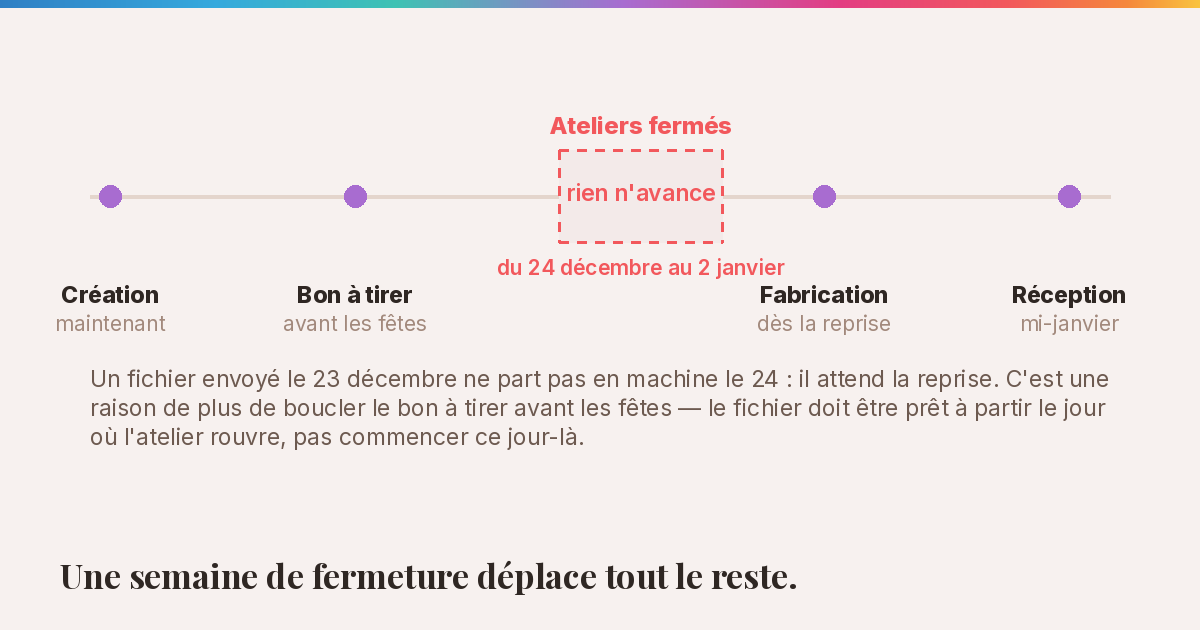
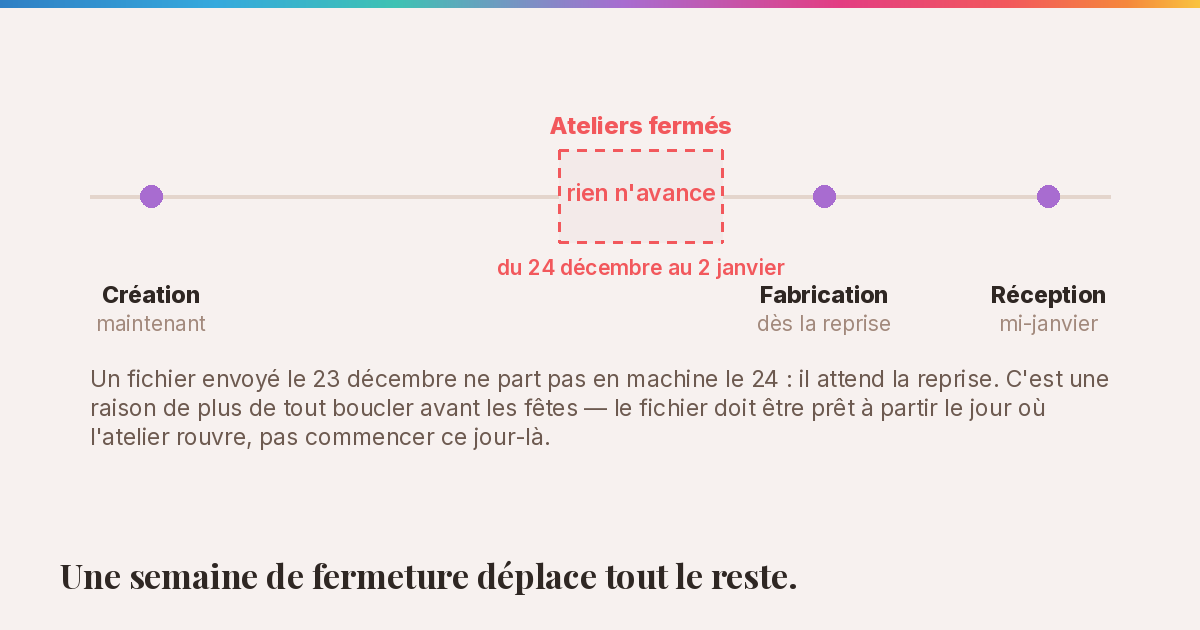
Sept articles sur huit validés, et le bon à tirer quitte le rétroplanning
Validés par Laurent le 24 octobre : le 12 novembre, le 27 novembre et
le 4 décembre tels quels ; le 20 novembre après retrait. Avec les trois
déjà validés, il reste un seul article en attente — celui du
1er décembre, sur les avis, qui est neuf.

Le retrait demandé sur le 20 novembre est l'étape « Décembre : le bon à
tirer ». Elle sort du texte ET des deux frises, comme demandé — mais
pas toute seule : la laisser dans trois phrases qui la nomment aurait
été pire que de ne rien retirer. Les quatre étapes qui ne se
compressent pas deviennent donc trois, « maintenant » couvre la
création et les corrections, et la raison de boucler avant les fêtes
ne cite plus le bon à tirer mais le fichier.

Dans la frise d'en-tête, l'intervalle vide se déplace : il séparait
l'impression du bon à tirer, il sépare maintenant la création de
l'impression. C'est le même intervalle — celui des fêtes — mais il n'a
plus d'étape à sa droite, et le pointillé suit.

Deux choses à signaler, qui ne sont pas dans ce commit.

« Les avis clients : le seul support de communication que vous ne
payez pas » n'existe plus nulle part : c'est le titre de la version
d'hier, remplacée par « Cinq avis signés, et le mot qui revient dans
quatre ». Le PDF où il figure encore est l'ancien.

La publication n° 17 du 23 novembre porte toujours le bon à tirer, et
à deux endroits : le repère 2 de sa frise, et sa planche 05 entière —
« Le bon à tirer n'est pas une formalité ». Elle paraît trois jours
[…]

diff --git a/reseaux/illustrations.py b/reseaux/illustrations.py
@@ -684,10 +684,14 @@ def illu_retroplanning():
     tirer et reprend en janvier.
     """
     im, d = fond()
-    etapes = [("Création", "maintenant"), ("Bon à tirer", "décembre"),
-              ("Impression", "janvier"), ("Réception", "mi-janvier")]
+    # Trois moments depuis le 24 octobre : le bon à tirer est sorti de
+    # l'article, la frise le suit. L'intervalle vide se déplace donc
+    # entre la création et l'impression — c'est toujours le même
+    # intervalle, celui des fêtes, mais il n'a plus d'étape à sa droite.
+    etapes = [("Création", "maintenant"), ("Impression", "janvier"),
+              ("Réception", "mi-janvier")]
     cy = 250
-    xs = [170, 450, 730, 1010]
+    xs = [210, 600, 990]
     for i, (nom, delai) in enumerate(etapes):
         x = xs[i]
         d.ellipse([x - 42, cy - 42, x + 42, cy + 42], fill=rvb("corail"))
@@ -697,12 +701,12 @@ def illu_retroplanning():
                fill=rvb("blanc"))
         legende(d, x, cy + 64, nom, 23, "encre", centre=True)
         legende(d, x, cy + 94, delai, 20, "taupe", centre=True)
-        if i < 3:                       # une fleche, vers la gauche
+        if i < len(etapes) - 1:         # une fleche, vers la gauche
             xa, xb = xs[i + 1] - 58, x + 58
-            if i == 1:
-                # L'intervalle entre l'impression (janvier) et le bon a
-                # tirer (decembre) est le seul ou RIEN ne se passe : le
-                # fichier attend les fetes. Le legender sans le dessiner
+            if i == 0:
+                # L'intervalle entre la creation et l'impression est
+                # le seul ou RIEN ne se passe : le fichier attend les
+                # fetes. Le legender sans le dessiner
                 # laisserait la frise dire le contraire de sa propre
                 # legende, donc ce trait-la est pointille.
                 t = xa
@@ -717,8 +721,8 @@ def illu_retroplanning():
                        width=5)
             d.polygon([(xb, cy), (xb + 22, cy - 12), (xb + 22, cy + 12)],
                       fill=rvb("sable_fonce"))
-    legende(d, 170, cy - 92, "aujourd'hui", 20, "taupe", centre=True)
-    legende(d, 1010, cy - 92, "la boîte aux lettres", 20, "taupe",
+    legende(d, 210, cy - 92, "aujourd'hui", 20, "taupe", centre=True)
+    legende(d, 990, cy - 92, "la boîte aux lettres", 20, "taupe",
             centre=True)
     titre_bas(d, "Le calendrier se coupe en deux, et on compte à rebours.")
     return im
@@ -791,10 +795,9 @@ def illu_voeux_fermeture():
     ecrire(d, (fx0 + fx1) / 2, y + 58, "du 24 décembre au 2 janvier",
            "Inter-600", 21, "corail", centre=True)
 
-    jalons = [(0.02, "Création", "maintenant"),
-              (0.26, "Bon à tirer", "avant les fêtes"),
+    jalons = [(0.06, "Création", "maintenant"),
               (0.72, "Fabrication", "dès la reprise"),
-              (0.96, "Réception", "mi-janvier")]
+              (0.94, "Réception", "mi-janvier")]
     for p, titre, quand in jalons:
         x = x0 + (x1 - x0) * p
         d.ellipse([x - 11, y - 11, x + 11, y + 11], fill=rvb("violet"))
@@ -802,9 +805,9 @@ def illu_voeux_fermeture():
         ecrire(d, x, y + 114, quand, "Inter-400", 21, "taupe", centre=True)
     pave(d, 90, 364,
          "Un fichier envoyé le 23 décembre ne part pas en machine le 24 : "
-         "il attend la reprise. C'est une raison de plus de boucler le bon "
-         "à tirer avant les fêtes — le fichier doit être prêt à partir le "
-         "jour où l'atelier rouvre, pas commencer ce jour-là.",
+         "il attend la reprise. C'est une raison de plus de tout boucler "
+         "avant les fêtes — le fichier doit être prêt à partir le jour où "
+         "l'atelier rouvre, pas commencer ce jour-là.",
          "Inter-400", 23, LARGE - 180)
     titre_bas(d, "Une semaine de fermeture déplace tout le reste.")
     return im

diff --git a/reseaux/blog/2026-11-20-supports-fin-annee-66.md b/reseaux/blog/2026-11-20-supports-fin-annee-66.md
@@ -7,7 +7,7 @@ date: 2026-11-20
 meta: "Passé la mi-novembre, imprimer pour Noël devient un pari. Le calendrier des vœux de janvier, l'emballage réutilisable et le menu de réveillon : ce qui reste tenable."
 illustration: retroplanning.png
 illustration_alt: "Frise du rétroplanning lue de droite à gauche, de la mi-janvier vers aujourd'hui : réception en mi-janvier, impression en janvier, bon à tirer en décembre, création maintenant."
-statut: à relire
+statut: validé
 ---
 
 # Cartes de vœux : il est trop tard pour Noël, et c'est une bonne nouvelle
@@ -30,17 +30,14 @@ Une précision qui change le calendrier : **le 31 janvier est la limite, pas la 
 [figure: voeux-fenetre.png | La même carte, deux mois, deux effets. | À gauche, dix-huit enveloppes empilées pour décembre ; à droite, une seule enveloppe pour janvier.]
 ## Le rétroplanning, coupé en deux
 
-Quatre étapes ne se compressent pas : la création, les corrections, le bon à tirer, la fabrication. Jusqu'ici elles s'enchaînaient. Pour janvier, elles se coupent en deux, et c'est tout l'intérêt.
+Trois étapes ne se compressent pas : la création, les corrections, la fabrication. Jusqu'ici elles s'enchaînaient. Pour janvier, elles se coupent en deux, et c'est tout l'intérêt.
 
-**Maintenant : la création.** On décide ce qu'on envoie, à qui, et en quelle quantité. Comptez une semaine de création et une semaine d'aller-retour pour les corrections — celles-ci dépendent de votre disponibilité, pas de la mienne, et cette disponibilité, vous l'avez en novembre.
-
-**Décembre : le bon à tirer.** Un exemplaire réel sur le papier définitif, validé avant de lancer la série. C'est l'étape que les gens pressés veulent sauter, et celle qui évite de refaire mille cartes.
-
+**Maintenant : la création et les corrections.** On décide ce qu'on envoie, à qui, et en quelle quantité. Comptez une semaine de création et une semaine d'aller-retour pour les corrections — celles-ci dépendent de votre disponibilité, pas de la mienne, et cette disponibilité, vous l'avez en novembre.
 
 [figure: voeux-fermeture.png | La semaine où rien n'avance, et tout ce qu'elle déplace. | Frise de la création à la réception, coupée par une zone en pointillés corail du 24 décembre au 2 janvier, marquée « ateliers fermés ».]
 **Janvier : la fabrication et la livraison.** Les ateliers se sont vidés, les transporteurs aussi, et les délais annoncés redeviennent les délais réels.
 
-Une réserve, et elle compte : entre Noël et le 2 janvier, les imprimeurs prennent des congés comme tout le monde, et beaucoup ferment une semaine entière. Un fichier envoyé le 23 décembre ne part pas en machine le 24, il attend la reprise. C'est une raison de plus de boucler le bon à tirer avant les fêtes : le fichier doit être prêt à partir le jour où l'atelier rouvre, pas commencer ce jour-là.
+Une réserve, et elle compte : entre Noël et le 2 janvier, les imprimeurs prennent des congés comme tout le monde, et beaucoup ferment une semaine entière. Un fichier envoyé le 23 décembre ne part pas en machine le 24, il attend la reprise. C'est une raison de plus de tout boucler avant les fêtes : le fichier doit être prêt à partir le jour où l'atelier rouvre, pas commencer ce jour-là.
 
 Votre fichier attend pendant les fêtes, votre commande non. L'erreur de calcul, elle, ne change pas : on compte à partir d'aujourd'hui, alors qu'il faut compter à l'envers, depuis le jour où la carte doit être dans la boîte aux lettres.
 

diff --git a/reseaux/propositions/a-valider/blog.md b/reseaux/propositions/a-valider/blog.md
@@ -23,14 +23,14 @@ Chaque article paraîtra à sa date, tout seul.
 |---|---|---|---|---|
 | vendredi 30 octobre | Enseigne de commerce : comment obtenir l'autorisation préalab | 801 | 3 | ✅ validé |
 | vendredi 6 novembre | Pourquoi vos couleurs imprimées ne ressemblent jamais à votre | 647 | 3 | ✅ validé |
-| jeudi 12 novembre | Habiller sa vitrine : dépoli, microperforé ou lettres découpé | 925 | 3 | ⚠ à relire |
+| jeudi 12 novembre | Habiller sa vitrine : dépoli, microperforé ou lettres découpé | 925 | 3 | ✅ validé |
 | vendredi 13 novembre | Qui possède votre logo ? | 687 | 3 | ✅ validé |
-| vendredi 20 novembre | Cartes de vœux : il est trop tard pour Noël, et c'est une bon | 1065 | 3 | ⚠ à relire |
-| vendredi 27 novembre | Vitrine de fin d'année : ce qui se lit vraiment depuis le tro | 854 | 3 | ⚠ à relire |
+| vendredi 20 novembre | Cartes de vœux : il est trop tard pour Noël, et c'est une bon | 1026 | 3 | ✅ validé |
+| vendredi 27 novembre | Vitrine de fin d'année : ce qui se lit vraiment depuis le tro | 854 | 3 | ✅ validé |
 | mardi 1er décembre | Cinq avis signés, et le mot qui revient dans quatre | 1185 | 3 | ⚠ à relire |
-| vendredi 4 décembre | Faut-il refaire son logo pour la nouvelle année ? Trois quest | 792 | 3 | ⚠ à relire |
+| vendredi 4 décembre | Faut-il refaire son logo pour la nouvelle année ? Trois quest | 792 | 3 | ✅ validé |
 
-**5 articles sur 8 attendent ta validation.** Pour en
+**1 article sur 8 attend ta validation.** Pour en
 valider un : ouvrir son fichier dans `reseaux/blog/`, remplacer la ligne
 `statut:` par `statut: validé`, et le pousser. Le reste est automatique.
 

diff --git a/reseaux/blog/2026-12-04-refaire-son-logo-nouvelle-annee.md b/reseaux/blog/2026-12-04-refaire-son-logo-nouvelle-annee.md
@@ -7,7 +7,7 @@ date: 2026-12-04
 meta: "Changer de logo parce que l'année change n'est pas une raison. Trois questions concrètes pour savoir s'il faut ajuster, refondre, ou ne rien toucher."
 illustration: bilan.png
 illustration_alt: "Les trois questions du diagnostic — lisible partout, fichiers en main, dit-il ce que vous vendez — et les deux issues : un seul non, on ajuste ; trois non, on redessine."
-statut: à relire
+statut: validé
 ---
 
 # Faut-il refaire son logo pour la nouvelle année ? Trois questions avant de décider

diff --git a/reseaux/blog/2026-11-12-habiller-sa-vitrine-66.md b/reseaux/blog/2026-11-12-habiller-sa-vitrine-66.md
@@ -7,7 +7,7 @@ date: 2026-11-12
 meta: "Dépoli, microperforé, lettres découpées : quel adhésif de vitrine pour quel usage, ce que ça coûte en lumière, et quand ça devient une enseigne."
 illustration: vitrine.png
 illustration_alt: "Trois vitrines identiques montrant les trois habillages : le dépoli qui masque tout, le microperforé en trame de points, et les lettres découpées qui ne couvrent que le dessin."
-statut: à relire
+statut: validé
 ---
 
 # Habiller sa vitrine : dépoli, microperforé ou lettres découpées ?

diff --git a/reseaux/blog/2026-11-27-vitrine-fin-annee-trottoir.md b/reseaux/blog/2026-11-27-vitrine-fin-annee-trottoir.md
@@ -7,7 +7,7 @@ date: 2026-11-27
 meta: "Hauteur des yeux, verre libre, éclairage, fond : les quatre points qui décident si votre vitrine de fin d'année se lit depuis la rue."
 illustration: trottoir.png
 illustration_alt: "La même vitrine de Noël vue à trois, dix et vingt mètres : les lignes de détail disparaissent une à une, seul le mot principal reste lisible."
-statut: à relire
+statut: validé
 ---
 
 # Vitrine de fin d'année : ce qui se lit vraiment depuis le trottoir d'en face
